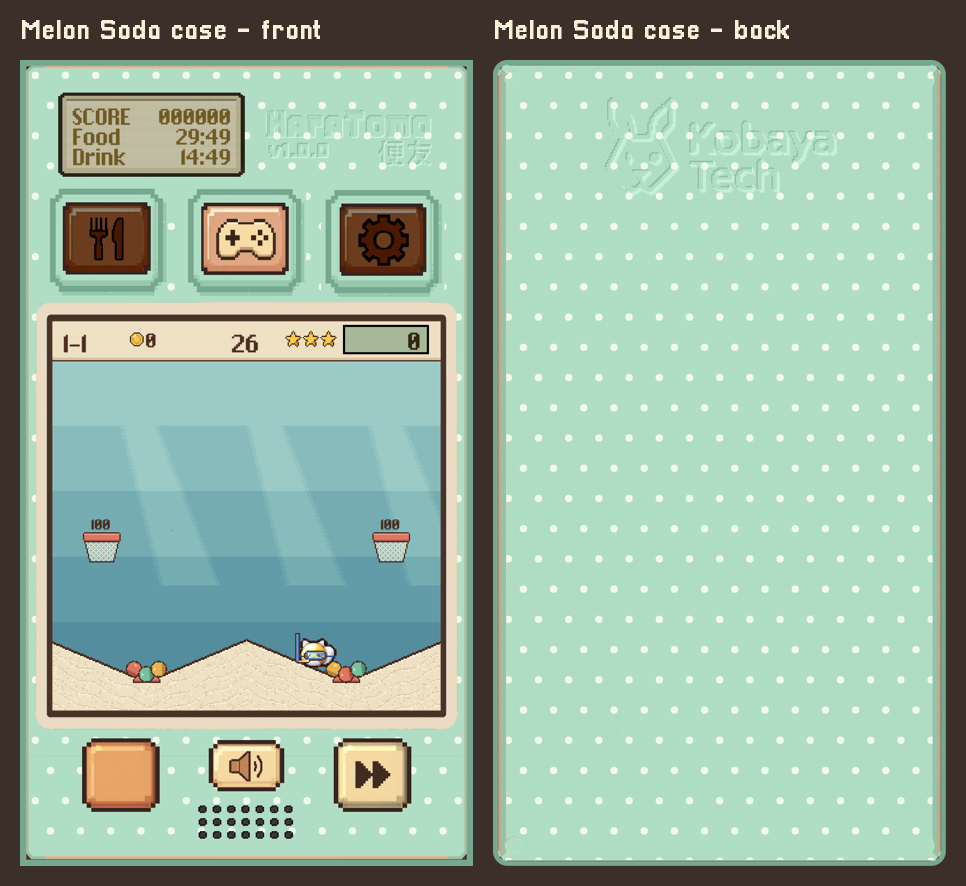
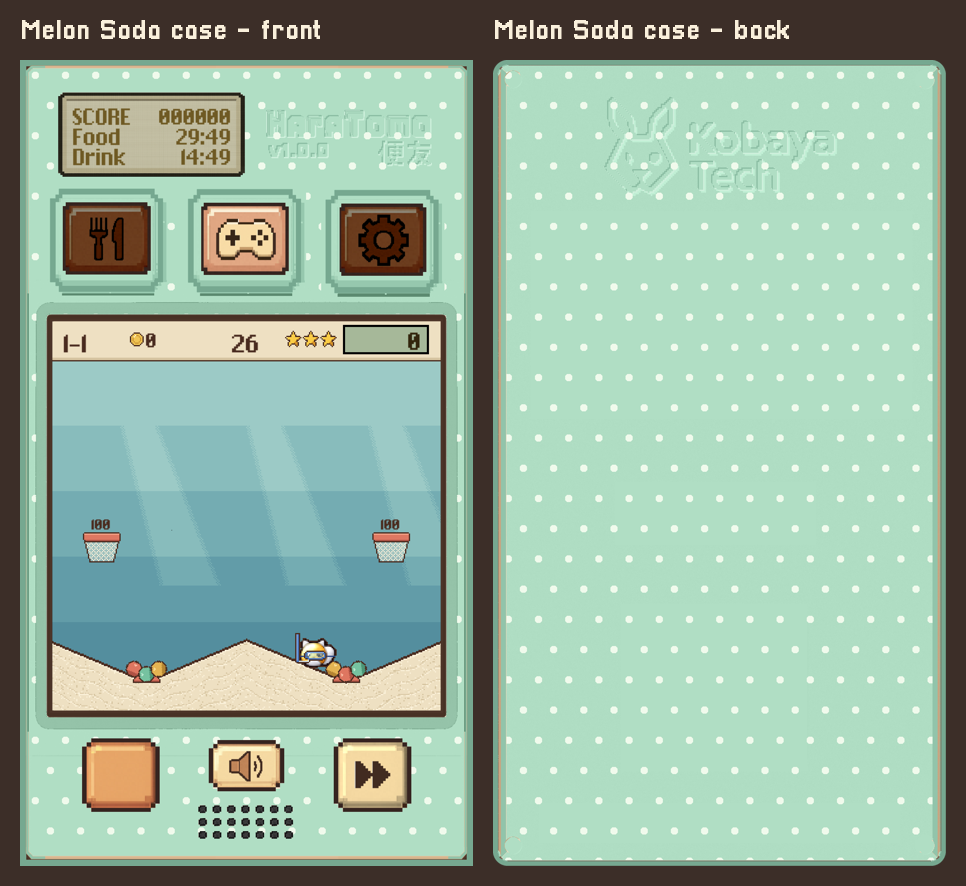
Case mockup: the case reaches the screen's dark border, the bezel's shading kept in the case colours

Changed region(s): [[0.0311, 0.3047, 0.4969, 0.8228]]

diff --git a/docs/ideas_roadmap.md b/docs/ideas_roadmap.md
@@ -633,6 +633,8 @@ then pages); the section's name is the page title. Coins on the frame's top band
    no pattern) that hide the device's cream
    there, each with a hole showing only the pressable face and its dark outline. The bottom
    buttons stay as they are.
+   Round the main screen the case reaches the screen's dark border (left visible) and keeps the
+   bezel's shaded band shaded, in its own colours (user, 2026-10-13).
    The case covers the battery compartment too (user, 2026-10-13): to change the
    batteries you take the case off.
    TO DECIDE (user, 2026-10-13): how a case is put on / taken off (on the device's back, flipped:
